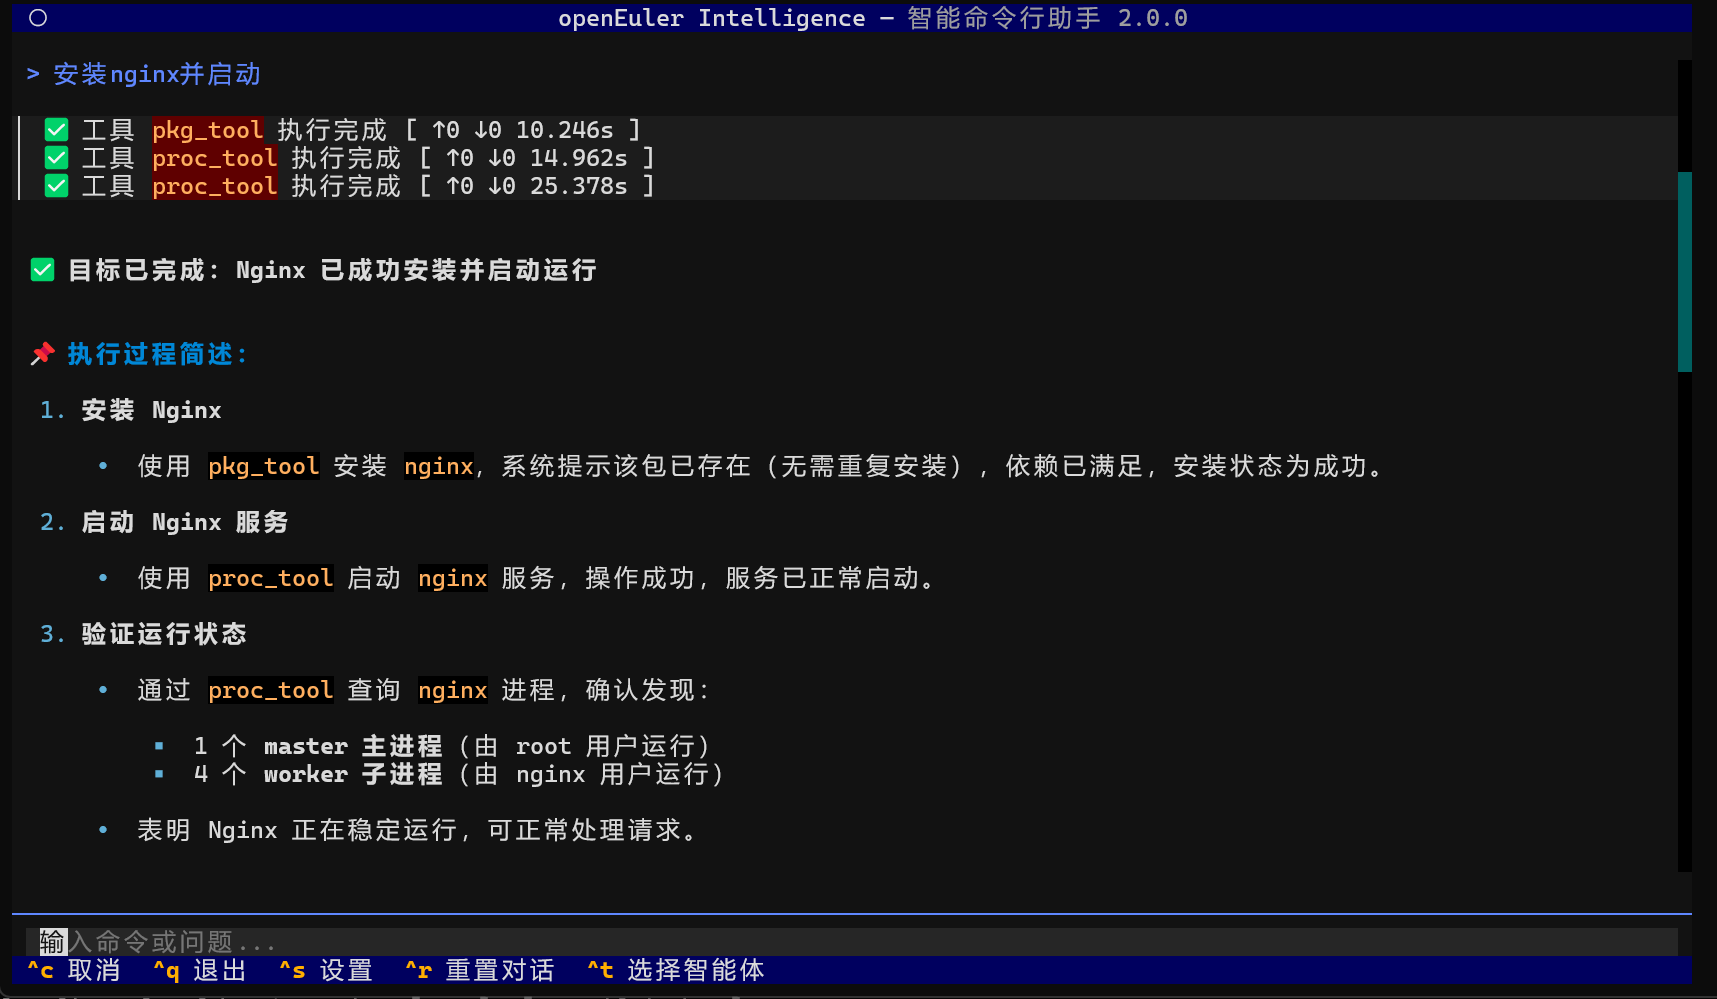
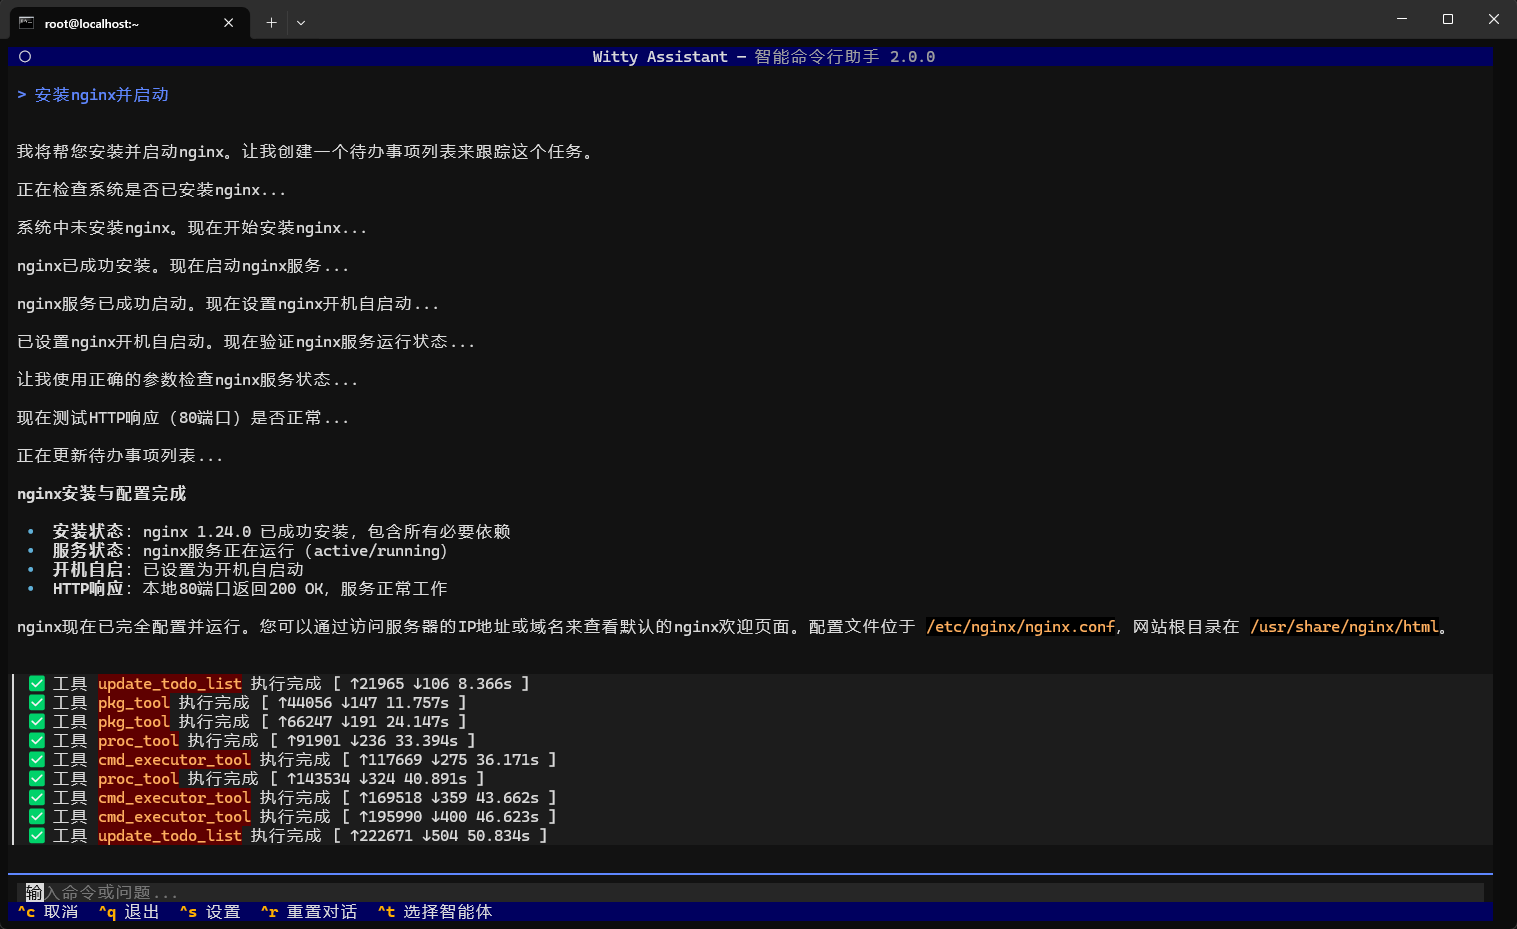
fix Witty Assistant 命令行客户端使用手册+Witty Assistant 智能体介绍

diff --git a/docs/zh/openeuler_intelligence/oe_cli/agent_introduce.md b/docs/zh/openeuler_intelligence/oe_cli/agent_introduce.md
@@ -3,25 +3,24 @@
 ## 1. 引言
 
 本手册聚焦 智能助手 cli（Witty Assistant） 智能体能力体系展开全面介绍，智能体系列是 Witty 平台面向垂直业务场景打造的智能交互工具，依托专属技术架构与 MCP 服务能力底座，深度适配业务场景需求，实现轻量化、场景化的智能服务落地。
-现阶段 Witty 平台已集成LLM chat、基础运维Agent、已知问题分析Agent三款智能体，其中 LLM chat聚焦智能对话问询能力，为用户提供自然语言交互支撑；基础运维Agent是面向openEuler基础运维领域的专用工具，其核心优势在于整合两大 MCP 服务能力，实现 openEuler 系统基础运维全场景覆盖与轻量化知识检索的有机结合；已知问题分析Agent将面向已知问题诊断场景开发。手册通过标准化的能力说明与实操案例，为企业运维人员提供 “即查即用” 的操作指引，助力降低运维门槛、提升运维工作的标准化与高效化水平。
+现阶段 Witty 平台已集成LLM chat、基础运维Agent两款智能体，其中 LLM chat聚焦智能对话问询能力，为用户提供自然语言交互支撑；基础运维Agent是面向openEuler基础运维领域的专用工具，其核心优势在于整合两大 MCP 服务能力，实现 openEuler 系统基础运维全场景覆盖与轻量化知识检索的有机结合；已知问题分析Agent将面向已知问题诊断场景开发。手册通过标准化的能力说明与实操案例，为企业运维人员提供 “即查即用” 的操作指引，助力降低运维门槛、提升运维工作的标准化与高效化水平。
 
 ### 默认智能体总汇表
 
-| Agent 名称    | 核心适用场景                            | 核心能力模块                                                          |
-|-------------|-----------------------------------|-----------------------------------------------------------------|
-| LLM chat    | 智能对话问询                            | LLM模型                                                           |
-| 基础运维Agent   | 基础运维全场景（命令执行、文件管理、系统监控等）+ 轻量化知识检索 | 1. oe-cli-mcp-server：基础运维全能力工具集<br>2. rag-server：轻量化知识库管理与检索工具集 |
-| 已知问题分析Agent | 针对已知问题的分析诊断                       | 待开发                                                             |
+| Agent 名称  | 核心适用场景                            | 核心能力模块                                                          |
+|-----------|-----------------------------------|-----------------------------------------------------------------|
+| LLM chat  | 智能对话问询                            | LLM模型                                                           |
+| 基础运维Agent | 基础运维全场景（命令执行、文件管理、系统监控等）+ 轻量化知识检索 | 1. oe-cli-mcp-server：基础运维全能力工具集<br>2. rag-server：轻量化知识库管理与检索工具集 |
 
 ## 2. LLM chat
 
 LLM chat 是 Witty 平台集成的智能对话类智能体，核心依托 LLM 大语言模型能力，无需依赖 MCP 服务支撑，专注为用户提供高效、自然的智能对话问询服务，是 Witty 平台智能交互体系的基础支撑模块。
 
-## 2.1 核心能力介绍
+### 核心能力介绍
 
 LLM chat 核心依托用户配置的主流 LLM 大语言模型，具备高效、精准的自然语言对话与问询能力，无需依赖 MCP 服务及复杂配置。其定位为“轻量化智能对话助手”，无专业操作门槛，用户可通过自然语言直接发起问询，快速获取清晰、精准的应答反馈。
 
-## 2.2 使用案例
+### 使用案例
 
 以下展示基础的使用案例
 
@@ -35,9 +34,9 @@ LLM chat 核心依托用户配置的主流 LLM 大语言模型，具备高效、
 
 基础运维Agent通过整合两大核心 MCP 服务，实现“基础运维 + 知识检索”的一站式运维中枢。所有工具均适配 openEuler 系统特性，支持本地/远程执行（部分工具）、中英文双语返回，具备严格的参数规范与统一的返回格式，可直接集成到企业运维流程中。
 
-### 3.1 核心能力介绍
+### 核心能力介绍
 
-| 服务分类 | MCP 工具名称（带锚点） | 核心功能定位 | 默认端口 |
+| 服务分类 | MCP 工具名称 | 核心功能定位 | 默认端口 |
 |----------|------------------------|--------------|----------|
 | 基础运维服务 | <a href="#cmd_executor_tool">cmd_executor_tool</a> | 本地/SSH远程命令/脚本执行，自动适配超时时间 | 12555 |
 | 基础运维服务 | <a href="#file_tool">file_tool</a> | 本地文件/目录查、增、改、删全操作 | 12555 |
@@ -58,7 +57,7 @@ LLM chat 核心依托用户配置的主流 LLM 大语言模型，具备高效、
 | 轻量化RAG服务 | <a href="#export_database">export_database</a> | 导出知识库数据库文件，支持备份 | 12311 |
 | 轻量化RAG服务 | <a href="#import_database">import_database</a> | 导入数据库文件，合并知识库与文档 | 12311 |
 
-### 3.2 使用案例
+### 使用案例
 
 以下演示文件操作，提供自然语言交互 Prompt 格式，文件路径等关键信息即可使用，所有场景均贴合企业内部运维实际需求。
 
@@ -78,16 +77,16 @@ LLM chat 核心依托用户配置的主流 LLM 大语言模型，具备高效、
 
 以下详细列出各 Server 信息及下属工具的核心详情。
 
-### 4.1 MCP_Server列表
+### MCP_Server列表
 
 | 端口号 | 服务名称 | 目录路径 | 简介 |
 |--------|----------|----------|------|
 | 12555 | oe-cli-mcp-server | mcp_center/oe_cli_mcp_server | 基础运维MCP：提供命令执行、文件管理、系统信息查询、进程管理、软件包管理、SSH修复、Network修复等核心工具 |
 | 12311 | rag-server | mcp_center/third_party_mcp/rag | 轻量化rag服务：提供知识库创建与管理、文档导入与检索、数据库导出与导入等核心工具 |
 
-### 4.2 MCP_Server 详情
+### MCP_Server 详情
 
-#### 4.2.1 oe-cli-mcp-server
+#### oe-cli-mcp-server
 
 | MCP_Server 名称 | MCP_Tool 列表 | 工具功能 | 核心输入参数 | 关键返回内容 |
 |-----------------|---------------|----------|--------------|--------------|
@@ -99,7 +98,7 @@ LLM chat 核心依托用户配置的主流 LLM 大语言模型，具备高效、
 |                 | <a id="ssh_fix_tool">ssh_fix_tool</a> | 诊断并修复openEuler系统SSH连接失败问题，检查端口连通性、sshd服务状态并修复配置 | - target：目标主机IP/主机名（必填）<br>- port：SSH端口（默认22）<br>- lang：语言设置（可选） | success（修复结果）、message（修复结果说明）、target（目标主机）、result（各步骤执行结果列表） |
 |                 | <a id="sys_info_tool">sys_info_tool</a> | 批量采集openEuler系统的系统、硬件、安全类信息，纯Python+系统命令安全调用 | - info_types：信息类型列表（必填，枚举：os/load/uptime/cpu/mem/disk/gpu/net/selinux/firewall） | success（采集结果）、message（采集信息/错误提示）、result（结构化采集数据）、target（固定127.0.0.1）、info_types（已采集类型） |
 
-#### 4.2.2 rag-server
+#### rag-server
 
 | MCP_Server 名称 | MCP_Tool 列表 | 工具功能 | 核心输入参数 | 关键返回内容 |
 |-----------------|---------------|----------|--------------|--------------|

diff --git a/docs/zh/openeuler_intelligence/oe_cli/use_guide.md b/docs/zh/openeuler_intelligence/oe_cli/use_guide.md
@@ -1,4 +1,4 @@
-# 智能助手 cli ( Witty Assistant )使用介绍
+# 智能助手 cli (Witty Assistant)使用介绍
 
 ## 引言
 
@@ -13,7 +13,7 @@ Witty Assistant 是 openEuler Intelligence 旗下的一款 OS 智能助手。Wit
 
 ## 1. 使用说明
 
-### 1.1 打开 Witty Assistant
+### 打开 Witty Assistant
 
 打开 Witty Assistant，ctrl + c 中断，ctrl + q 退出，ctrl + s 打开设置，ctrl + t 选择智能体，支持鼠标选择。
 
@@ -23,13 +23,13 @@ witty
 
 <img src=pictures/open_Witty.png width=1200 />
 
-### 1.2 选择智能体
+### 选择智能体
 
 点击选择智能体（ ctrl + t ），默认为 基础运维Agent，按上下键选择，回车确认，ESC 取消，高亮表示选中，智能体详情参照[智能体介绍]()。
 
 <img src=pictures/default_agent.png width=1200 />
 
-### 1.3 使用智能体
+### 使用智能体
 
 进行智能体的使用，此处以基础运维Agent举例，回车确认，进入对话界面。
 
@@ -37,7 +37,7 @@ witty
 
 在左下角输入栏输入命令或问题，如帮我查看内存使用情况，智能体会根据提问自动选择合适的 MCP 工具，并询问是否执行，此处点击确认。
 
-<img src=pictures/use-case-1.PNG width=1200 />
+<img src=pictures/agent_use.png width=1200 />
 
 结果输出：
 
@@ -47,7 +47,7 @@ witty
 >
 > 设置->更改用户设置->常规设置，可以设置MCP工具授权模式。
 
-### 1.4 Witty Assistant预设
+### Witty Assistant预设
 
 可以在 witty 前输入以下命令配置客户端。
 
@@ -102,7 +102,7 @@ witty llm
 
 <img src=pictures/set_llm.png width=1200 />
 
-### 1.7 界面操作快捷键
+### 界面操作快捷键
 
 - **Ctrl+S**: 打开设置界面
 - **Ctrl+R**: 重置对话历史
@@ -118,7 +118,7 @@ witty llm
 
 ## 2. 平台演示
 
-### 2.1 使用Windows Terminal
+### 使用Windows Terminal
 
 #### 打开 Witty Assistant
 
@@ -140,7 +140,7 @@ witty
 
 <img src=pictures/output.png width=1200 />
 
-### 2.2 使用vscode
+### 使用vscode
 
 #### 打开 Witty Assistant
 
@@ -158,9 +158,9 @@ witty
 
 ## 3. 使用案例
 
-以“Nginx服务启动”为例，演示openEuler智能助手的进阶用法：
+以“Nginx服务启动”为例，演示智能助手 cli的进阶用法：
 
-**自然语言交互**：启动openEuler智能助手，切换至“基础运维Agent”，输入“安装nginx并启动”；
+**自然语言交互**：启动 Witty Assistant ，切换至“基础运维Agent”，即OE-智能运维助手，输入“安装nginx并启动”；
 
 <img src=pictures/nginx_install.png width=1200 />
 
